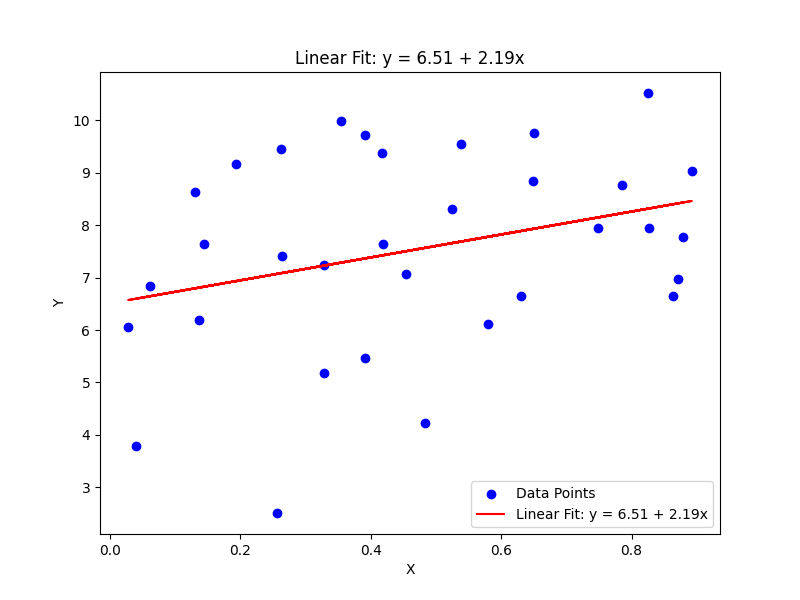
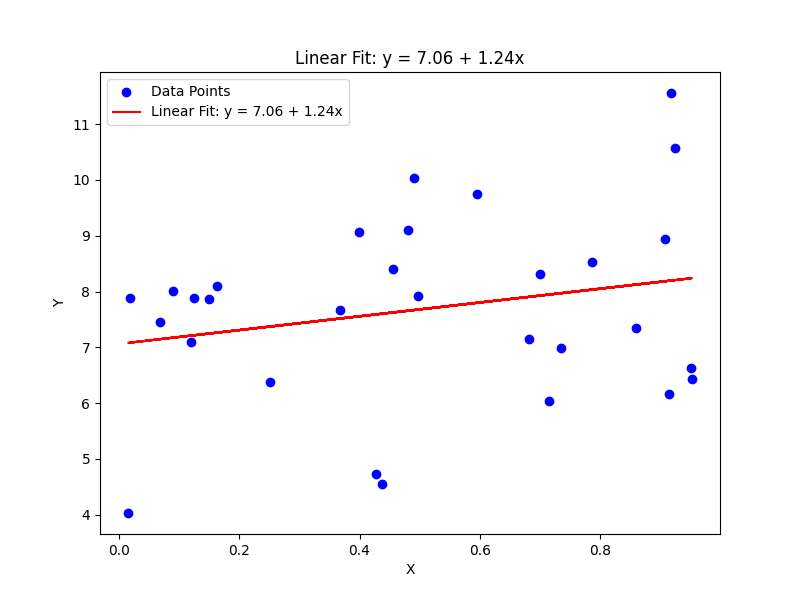
youtube video added

diff --git a/readme.md b/readme.md
@@ -1,0 +1,55 @@
+## Demonstration
+Watch the video below to see a full demonstration of the LSA Search Engine in action:
+[![Linear Regression](https://img.youtube.com/vi/7mN3EiGxM/0.jpg)](https://youtu.be/7mN3EiGxM-o)
+
+# CS506 Assignment 7  
+## Hypothesis Testing and Confidence Intervals in Linear Regression
+
+In this assignment, you’ll extend the previous work from Assignment 6 to include hypothesis testing and confidence intervals through simulations. You’ll enhance the interactive webpage to allow users to perform hypothesis tests on the slope or intercept of the regression line and generate confidence intervals based on simulations.
+
+## Task Overview
+
+The interactive webpage allows users to input the following:
+
+- **Sample size (N)**: Number of data points in the dataset.
+- **Mean (μ)**: Mean of the normal error term added to `Y`.
+- **Variance (σ²)**: Variance of the normal error term.
+- **Intercept (β₀)**: Intercept value for the regression.
+- **Slope (β₁)**: Slope value for the regression.
+- **Number of simulations (S)**: Number of datasets to simulate.
+
+When the "Generate" button is clicked, the following are displayed:
+
+1. **Scatter Plot and Regression Line**: A plot of the generated random dataset `(Y, X)` with the specified parameters, including a fitted linear regression line and displaying the slope and intercept values.
+2. **Hypothesis Testing**:
+   - Users can select a parameter (`slope` or `intercept`) to test and a test type (`>`, `<`, or `≠`).
+   - The observed statistic is compared to the hypothesized parameter using the specified test type.
+   - The p-value of the test is displayed, along with a histogram showing the distribution of simulated statistics, the observed value, and the hypothesized value.
+3. **Confidence Intervals**:
+   - Users can select a parameter (`slope` or `intercept`) and a confidence level (90%, 95%, or 99%) to calculate a confidence interval.
+   - The confidence interval and mean estimate are displayed, with a plot showing the individual estimates, confidence interval, mean estimate, and the true parameter value.
+
+## Instructions
+
+### 1. Data Generation
+- Input values for `N`, `μ`, `σ²`, `β₀`, `β₁`, and `S`.
+- Click the "Generate Data" button.
+- A scatter plot with a fitted regression line will be generated and displayed.
+
+### 2. Hypothesis Testing
+- After generating data, select a parameter (`slope` or `intercept`) to test.
+- Select the type of test:
+  - `>`: Tests if the observed statistic is greater than the hypothesized value.
+  - `<`: Tests if the observed statistic is less than the hypothesized value.
+  - `≠`: Tests if the observed statistic is not equal to the hypothesized value.
+- Click "Run Hypothesis Testing".
+- The p-value of the hypothesis test will be displayed along with a histogram of simulated statistics, the observed value (red dashed line), and the hypothesized value (blue line).
+
+### 3. Confidence Intervals
+- Select a parameter (`slope` or `intercept`) for which to calculate the confidence interval.
+- Choose a confidence level (90%, 95%, or 99%).
+- Click "Calculate Confidence Interval".
+- The confidence interval, mean estimate, and a plot showing simulated estimates, confidence interval bounds, and true parameter value will be displayed.
+
+## Key Takeaways
+This assignment extends the previous linear regression project by adding hypothesis testing and confidence interval calculations. By experimenting with different values for parameters and confidence levels, users can explore how randomness affects statistical inference in regression models. This exercise provides hands-on experience with hypothesis testing, confidence intervals, and statistical interpretation in a linear regression context.
